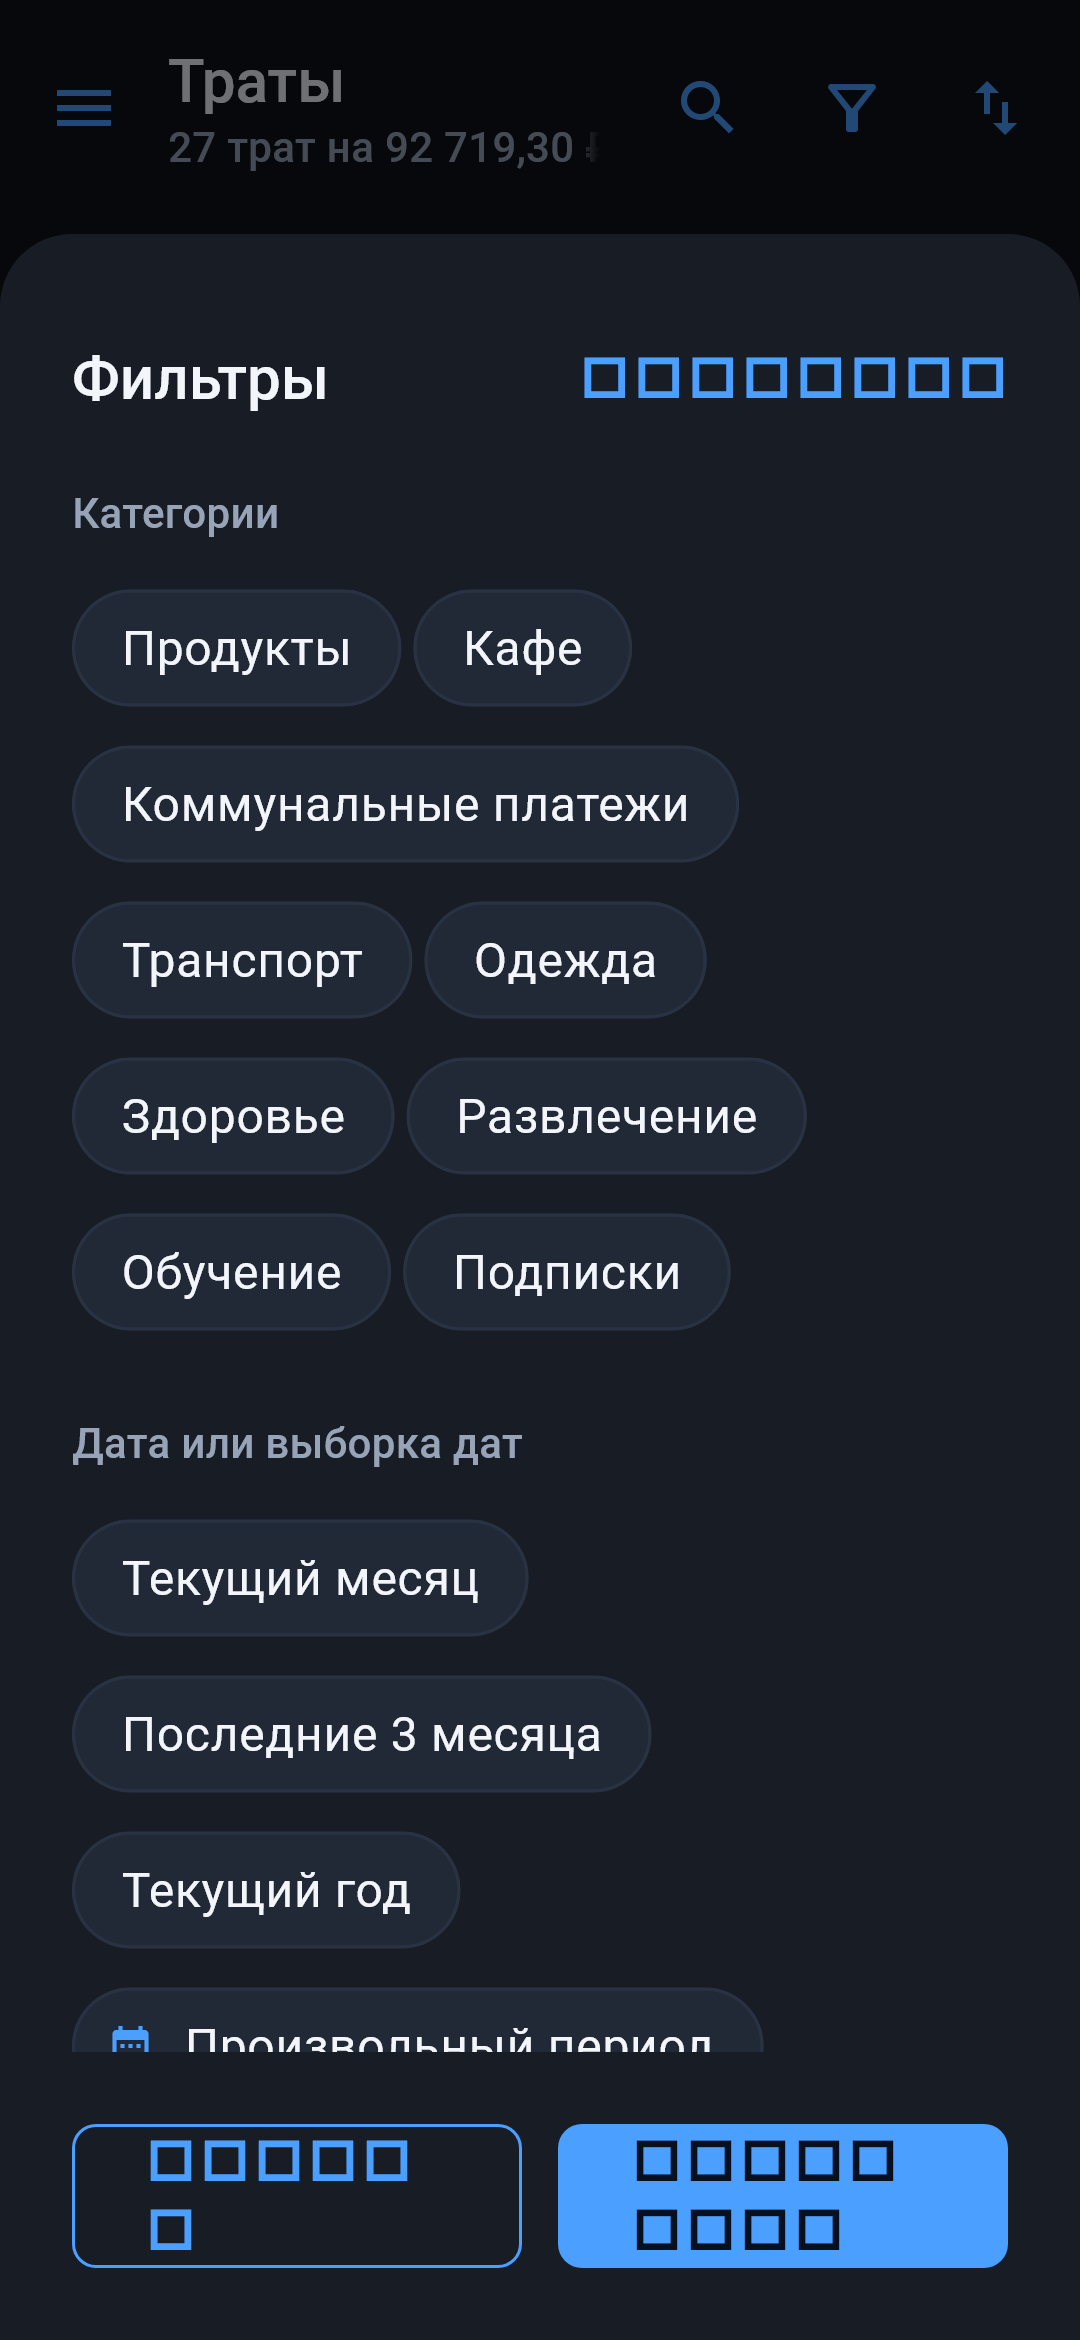
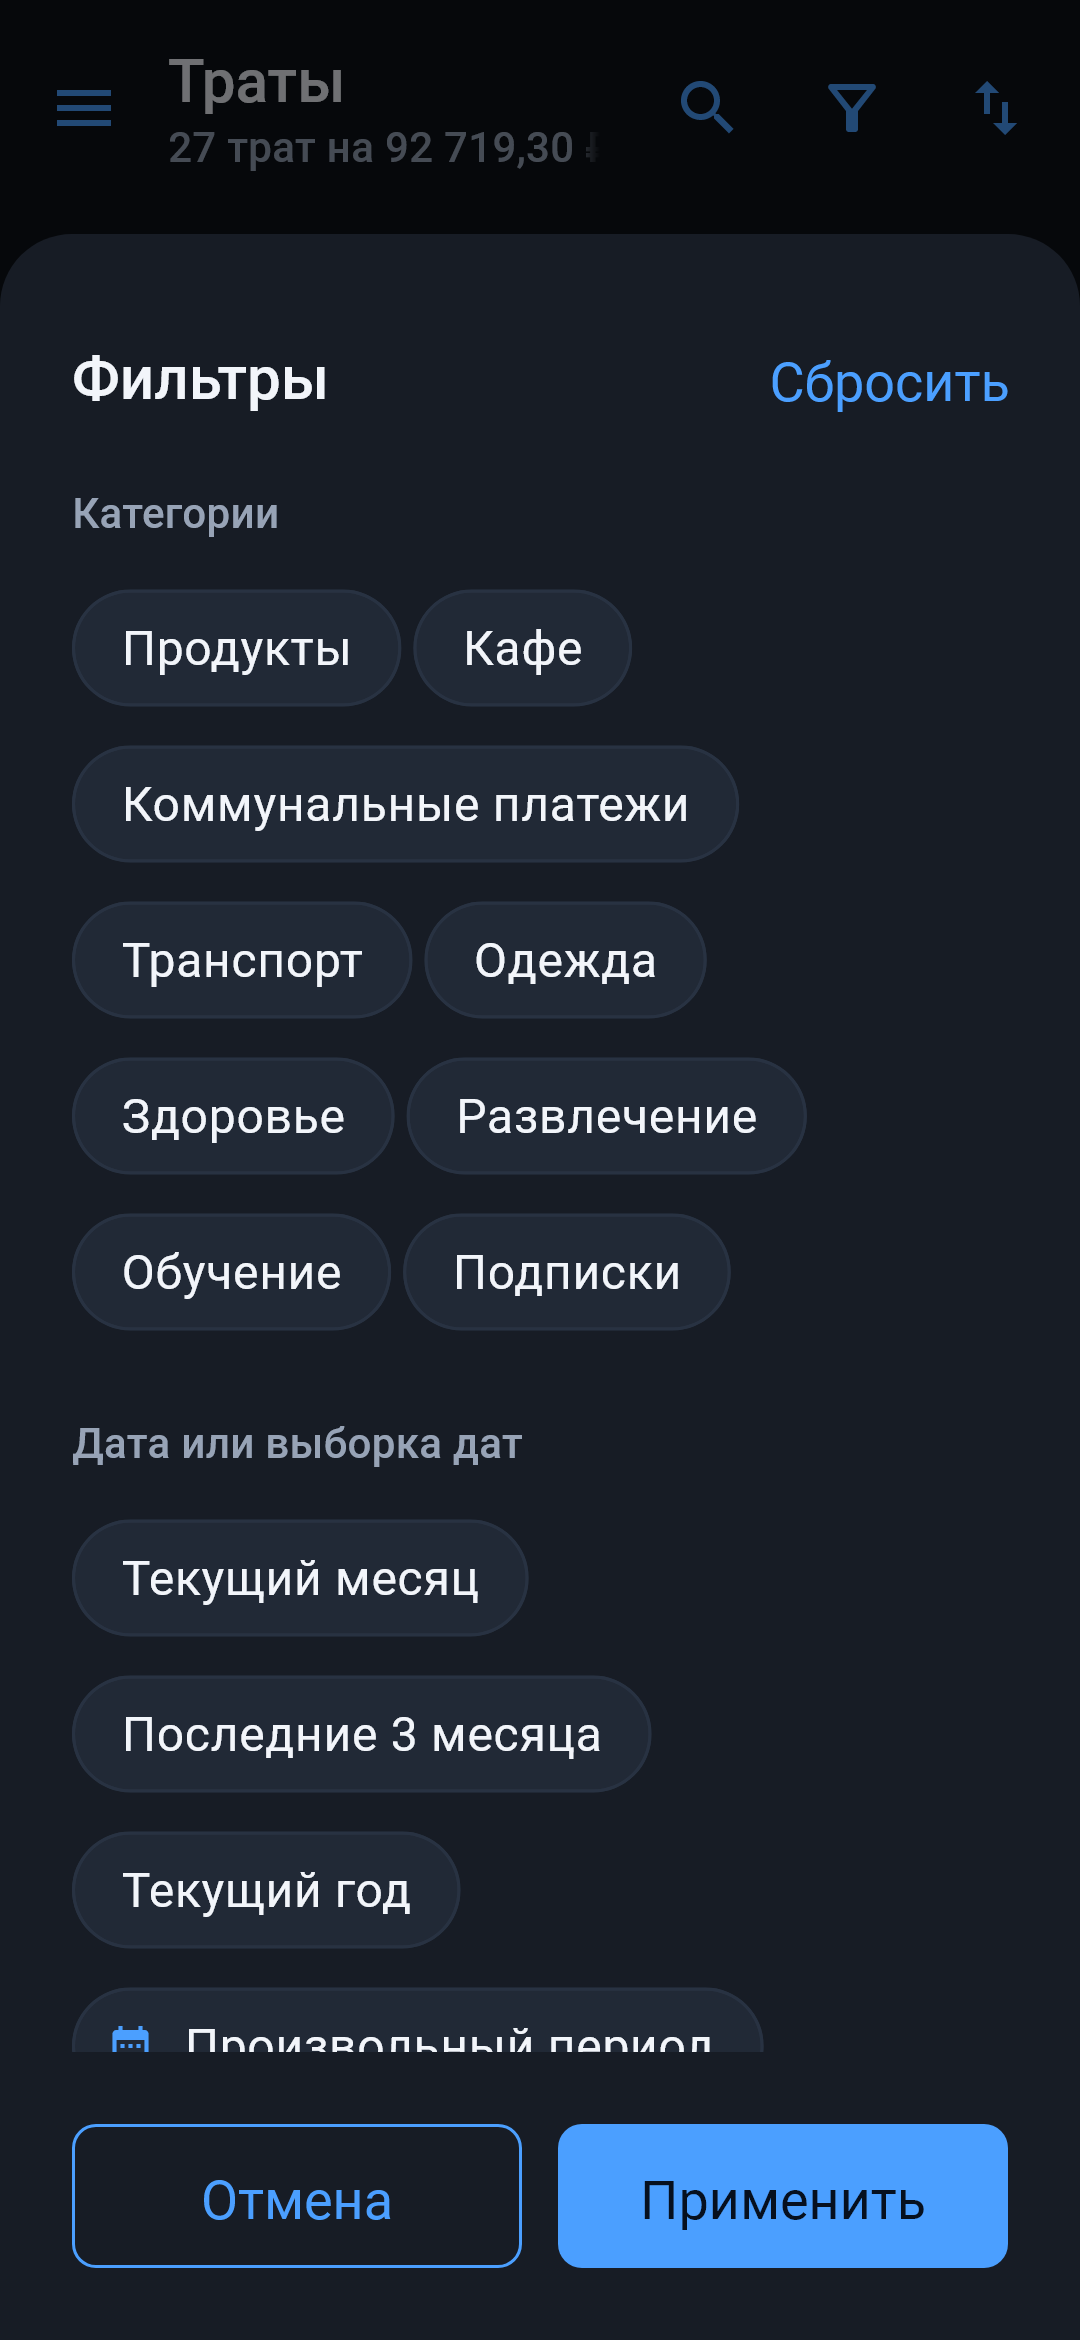
Единая гарнитура во всех элементах интерфейса
Стили кнопок и полей берут текстовую шкалу напрямую, поэтому семейство
шрифта задаётся в самой шкале, а не только в ThemeData.

Changed region(s): [[0.5806, 0.9047, 0.8556, 0.9671], [0.5194, 0.1248, 0.9472, 0.1872], [0.1222, 0.9047, 0.3972, 0.9671]]

diff --git a/lib/core/theme/aurora_theme.dart b/lib/core/theme/aurora_theme.dart
@@ -18,7 +18,9 @@ class AuroraTheme {
   static ThemeData dark() => _build(AuroraPalette.dark);
 
   static ThemeData _build(AuroraPalette palette) {
-    final TextTheme textTheme = _textTheme(palette);
+    // Гарнитура применяется сразу: стили кнопок и полей берутся из этой
+    // шкалы напрямую, поэтому семейство шрифта должно быть в ней уже задано.
+    final TextTheme textTheme = _textTheme(palette).apply(fontFamily: 'Roboto');
 
     return ThemeData(
       useMaterial3: true,
